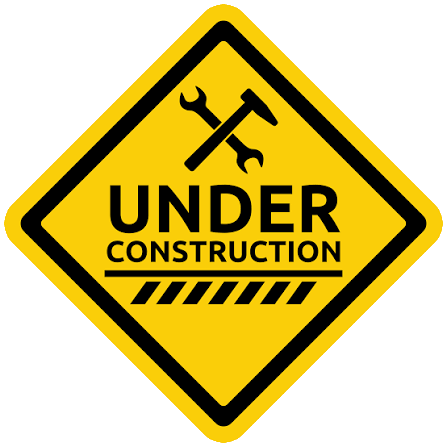
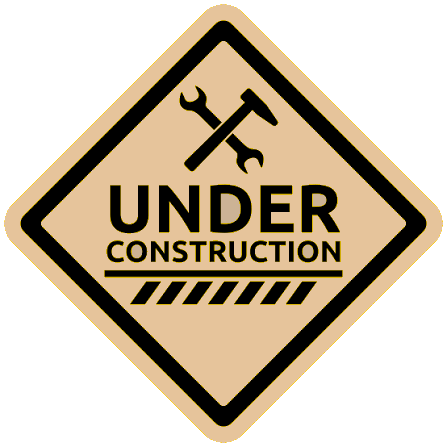
Photos page zoom on hover, prep landing page for launch

diff --git a/src/Components/PhotosPage/PhotoContainer/PhotoContent.tsx b/src/Components/PhotosPage/PhotoContainer/PhotoContent.tsx
@@ -1,51 +1,51 @@
 import { Link } from 'react-router-dom';
 import './PhotoContent.css';
+import NavBar from '../../HomePage/NavBar/NavBar';
 
 function PhotoContent() {
-    return(
-        <div className="photo-content">
-            <div className="titleBar">
-                <Link to="/"> Go back ↩</Link>
-                <h2 className="title"> Photo Gallery </h2>
-            </div>
-            <div className="photo-gallery">
-                <div className="column">
-                    <div className="photo">
-                        <img src="src/Assets/PhotosPage/candle.jpg" alt=""/>
-                    </div>
-                    <div className="photo">
-                        <img src="src/Assets/PhotosPage/Alaska1.jpg" alt=""/>
-                    </div>
-                    <div className="photo">
-                        <img src="src/Assets/PhotosPage/mural.jpg" alt=""/>
-                    </div>
-                </div>
-                <div className="column">
-                    <div className="photo">
-                        <img src="src/Assets/PhotosPage/savannahChurch.jpg" alt=""/>
-                    </div>
-                    <div className="photo">
-                        <img src="src/Assets/PhotosPage/tobeFisheye2.jpg" alt=""/>
-                    </div>
-                    <div className="photo">
-                        <img src="src/Assets/PhotosPage/tcRainbow.jpg" alt=""/>
-                    </div>
-                </div>
-                <div className= "column">
-                    <div className="photo">
-                        <img src="src/Assets/PhotosPage/tobeSneak.jpg" alt=""/>
-                    </div>
-                    <div className="photo">
-                        <img src="src/Assets/PhotosPage/helen.jpg" alt=""/>
-                    </div>
-                    <div className="photo">
-                        <img src="src/Assets/PhotosPage/lizard.jpg" alt=""/>
-                    </div>
-                </div>
-            </div>
-        </div>
+    return (
+        <>
+            <header><NavBar /></header>
+            <div className="photo-content">
 
-
+                <div className="photo-gallery">
+                    <div className="column">
+                        <div className="photo">
+                            <img src="src/Assets/PhotosPage/candle.jpg" alt=""/>
+                        </div>
+                        <div className="photo">
+                            <img src="src/Assets/PhotosPage/Alaska1.jpg" alt=""/>
+                        </div>
+                        <div className="photo">
+                            <img src="src/Assets/PhotosPage/mural.jpg" alt=""/>
+                        </div>
+                        <div ></div>
+                    </div>
+                    <div className="column">
+                        <div className="photo">
+                            <img src="src/Assets/PhotosPage/savannahChurch.jpg" alt=""/>
+                        </div>
+                        <div className="photo">
+                            <img src="src/Assets/PhotosPage/tobeFisheye2.jpg" alt=""/>
+                        </div>
+                        <div className="photo">
+                            <img src="src/Assets/PhotosPage/tcRainbow.jpg" alt=""/>
+                        </div>
+                    </div>
+                    <div className="column">
+                        <div className="photo">
+                            <img src="src/Assets/PhotosPage/tobeSneak.jpg" alt=""/>
+                        </div>
+                        <div className="photo">
+                            <img src="src/Assets/PhotosPage/helen.jpg" alt=""/>
+                        </div>
+                        <div className="photo">
+                            <img src="src/Assets/PhotosPage/lizard.jpg" alt=""/>
+                        </div>
+                    </div>
+                </div>
+            </div>
+        </>
     );
 }
 

diff --git a/src/Webpages/ProjectsPage.tsx b/src/Webpages/ProjectsPage.tsx
@@ -29,8 +29,8 @@ const cardPhotoSite = ["src/Assets/PhotoOfTheDay/tobe1.jpg"];
 //https://www.webdesignmuseum.org/gallery/australian-infront-2003
 
 //NAS PROJECT - robot text, change in future
-const cardHeaderNAS = "NAS Project";
-const cardContentNAS1 = "This project was a personal project to build a NAS server for my home. I had been using a Synology NAS for years, but I wanted to build my own server to learn more about how they work and to have more control over the hardware and software. I built the server using a custom-built PC with a Ryzen 5 3600 CPU, 16GB of RAM, and 4x4TB WD Red drives in RAID 5. I installed Unraid as the operating system and set up various services such as Plex, Nextcloud, and Home Assistant. The server has been running smoothly for over a year now and has been a great learning experience.";
+const cardHeaderNAS = "Personal NAS Server";
+const cardContentNAS1 = "This is a personal project to build a NAS server for my home. I found a good deal on a pre-built synology server which was actually cheaper than if I had build one myself. The software included in the server is very handy and has allowed me to set up a personal cloud, a media server, and a place to store snapshots of my computer in the event of a failure.";
 
 const cardContentNAS2 = "Some of the challenges I faced during this project included configuring the RAID array, setting up the various services, and ensuring that the server was secure. I also had to learn about networking and how to properly configure my router to allow remote access to the server.";
 

diff --git a/src/Components/PhotosPage/PhotoContainer/PhotoContent.css b/src/Components/PhotosPage/PhotoContainer/PhotoContent.css
@@ -7,70 +7,37 @@
     max-width: 1225px;
     width: 90%;
     margin:auto;
-    padding: 0px 0px;
+    padding: 2rem 0px;
     
 }
-
-.titleBar {
-    display: flex;
-    font-size: 2.5rem;
-    margin-bottom: 2rem;
-    justify-self: center;
-}
-
-.titleBar a {
-  position: relative;
-  display: inline-flex;
-  align-items: center;
-  justify-content: left;
-  font-size: 16px;
-  text-decoration: none;
-  border-radius: 8px;
-  transition: color 0.2s, background 0.15s;
-  color: var(--text-color);
-}
-
-.titleBar a::after {
-  content: "";
-  position: absolute;
-  bottom: 3px;
-  left: 0;
-  width: 100%;
-  height: 1px;
-  background: var(--accent-color);
-  transform: scaleX(0);
-  transform-origin: center;
-  transition: transform 0.35s ease;
-}
-
-.titleBar a:hover {
-  color: var(--accent-color);
-}
-
-.titleBar a:hover::after {
-  transform: scaleX(.8);
-}
-
-
-
 
 .photo-gallery {
     display: flex;
     gap: 20px;
+    width: 90%;
+    justify-self: center;
 }
 
 .column {
     display: flex;
     flex-direction: column;
     gap: 20px;
+        overflow: visible;
 }
 
-.photo img {
+.photo-content img {
     width: 100%;
     height: 100%;
     border-radius: 5px;
     object-fit: cover;
-
+    transform-origin: center center;
+    transition: transform 0.35s ease-in-out;
+}
+.photo-content img:hover {
+    transform: scale(1.2);
+    cursor: zoom-in;
+    position: relative;
+    z-index: 10;
 }
 
 @media(max-width: 768px) {

diff --git a/src/Components/HomePage/AboutMe/AboutPanel.tsx b/src/Components/HomePage/AboutMe/AboutPanel.tsx
@@ -7,7 +7,7 @@ return (
         <div className="panel-header">
             <span>About</span>
         </div>
-        <div className="panel-body">
+        <div className="about-body">
             
             <p>
                 Welcome to my website, there are many like it but this one is mine! I have a degree in software development, but have transitioned into working in the IT field and thought this would be a fun project to keep up my programming skills. As is likely apparent I'm no frontend developer, but I was inspired by neocities and older sites to make something a little outside of my comfort zone. Speaking of my comfort zone I typically work in languages like C#, Java, Python and Javascript, click on the <Link to="/projects">projects</Link> tab to see what I've worked on!

diff --git a/src/Components/HomePage/Projects/ProjectsPanelStyle.css b/src/Components/HomePage/Projects/ProjectsPanelStyle.css
@@ -4,10 +4,6 @@
   grid-template-areas: 
     "project-image project-body";
   min-height: 0;
-<<<<<<< HEAD
-=======
- 
->>>>>>> f4c000e (Project image navigation and re-did the color palette)
 
   overflow: hidden;
   background: var(--foreground-color);
@@ -19,11 +15,7 @@
   display: block;
   align-items: center;
   width: 100%;
-<<<<<<< HEAD
   border: 5px solid var(--foreground-color);
-=======
-   /* max-height: 210px;  breaks read*/
->>>>>>> f4c000e (Project image navigation and re-did the color palette)
 }
   .projectpanel-image img {
     object-fit: contain;

diff --git a/src/Components/ProjectsPage/ProjectCard/ProjectCardStyle.css b/src/Components/ProjectsPage/ProjectCard/ProjectCardStyle.css
@@ -13,7 +13,8 @@
   -moz-border-radius-bottomright: 25px;
   box-shadow: 5px 10px 10px hsl(0deg 0% 0% / 0.35);
 
-  /* max-height: 350px; breaks read more function*/
+  max-width: 1500px;
+  align-self: center;
 }
 
 .project-image {
@@ -36,7 +37,7 @@
     cursor: zoom-in;
 
     align-self: center;
-    max-width: 302.5px;
+    max-width: 302px;
   }
 
 

diff --git a/src/Components/HomePage/AboutMe/AboutPanelStyle.css b/src/Components/HomePage/AboutMe/AboutPanelStyle.css
@@ -6,8 +6,13 @@
   margin-bottom: 3px;
 }  
 
-.panel-body {
+.about-body {
   overflow: auto;
-  
+  padding: 8px;
+  line-height: 1.25;
+}
+.about-body p {
+  margin-top: 5px;
+  margin-bottom: 10px;
 }
 

diff --git a/src/Webpages/PhotosPage.tsx b/src/Webpages/PhotosPage.tsx
@@ -11,7 +11,6 @@ const imageArray = [
 function PhotosPage() {
     return (
         <div>
-            
             <PhotoContent/>
         </div>
     );

diff --git a/src/Components/HomePage/Weather/WeatherPanelStyle.css b/src/Components/HomePage/Weather/WeatherPanelStyle.css
@@ -1,4 +1,4 @@
-img {
+.weather-content img {
     object-fit: contain;
     width: 100%;
     height: auto;

diff --git a/src/Components/HomePage/Guestbook/GuestbookPanelStyle.css b/src/Components/HomePage/Guestbook/GuestbookPanelStyle.css
@@ -1,4 +1,4 @@
-img {
+.panel-body img {
     object-fit: contain;
     width: 100%;
     height: auto;

diff --git a/src/Components/HomePage/VisitorCounter/VisitorPanelStyle.css b/src/Components/HomePage/VisitorCounter/VisitorPanelStyle.css
@@ -1,4 +1,4 @@
-img {
+.panel-body img {
     object-fit: contain;
     width: 100%;
     height: auto;

diff --git a/src/Components/HomePage/Webring/WebringPanelStyle.css b/src/Components/HomePage/Webring/WebringPanelStyle.css
@@ -1,4 +1,4 @@
-img {
+.panel-body img {
     object-fit: contain;
     width: 100%;
     height: auto;
